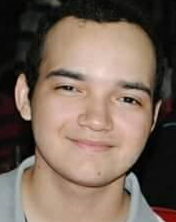
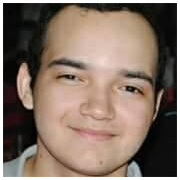
removendo imagens distorcidas #3 e adicionando página sobre a equipe #4

diff --git a/css/equipe.css b/css/equipe.css
@@ -1,0 +1,30 @@
+.membro{
+	border-top: 1px solid white;
+	padding:10px;
+	background-color: #F3F3F3;
+}
+
+.membro h5{
+	color:#446CB3;
+}
+
+.membro > *{
+	display: inline;	
+}
+
+.membro > img{
+	width:70px;
+	height: 70px;	
+	border-radius: 5px;	
+	float: left;
+	margin-right:10px;
+}
+
+.membro .contato img{
+	text-align: right;
+	float:right;
+	width:20px;
+	margin: 10px;
+	position:relative;
+	bottom: 50px;
+}

diff --git a/about.md b/about.md
@@ -3,58 +3,6 @@ layout: page
 title: Quem somos
 permalink: /quemsomos/
 ---
-<link href="../css/about.css" type="text/css" rel="stylesheet"> 
-
-<div class="equipe">
-	<h3>Diretoria</h3>
-	<div class="membro">
-		<img src="../images/DouglasGabriel.png">
-		<h4>Douglas Gabriel</h4><br>
-		Diretor Presidente
-	</div>
-	<br>
-	<div class="membro">
-		<img src="../images/Rafael.jpg">
-		<h4>Rafael Tavares</h4><br>
-		Diretor Vice-Presidente
-	</div>
-	<br>
-	<div class="membro">
-		<img src="../images/Victor.jpg">
-		<h4>Victor Hugo</h4><br>
-		Diretor de Projetos
-	</div>
-	<br>
-	<div class="membro">
-		<img src="../images/Jair.jpg">
-		<h4>Jair Anderson</h4><br>
-		Diretor Financeiro
-	</div>
-	<br>
-	<div class="membro">
-		<img src="../images/Priscila.jpg">
-		<h4>Priscila Gouveia</h4><br>
-		Diretora de RH
-	</div>
-	<br>
-	<div class="membro">
-		<img src="../images/Michelle.jpg">
-		<h4>Michelle Oliveira</h4><br>
-		Diretora de Qualidade
-	</div>
-	<br>
-	<div class="membro">
-		<img src="../images/Julierme.jpg">
-		<h4>Julierme Oliver</h4><br>
-		Diretor de Marketing
-	</div>
-	<br>
-	<div class="membro">
-		<img src="../images/Diogo.jpg">
-		<h4>Diogo Moreira</h4><br>
-		Professor Orientador
-	</div>
-</div>
 
 A Recursive é uma empresa sediada no campus do Instituto Federal de Educação, Ciência e Tecnologia da Paraíba da cidade de Cajazeiras que atua em diversas áreas do ramo do desenvolvimento de software. A nossa empresa é uma associação civil que tem a finalidade de proporcionar aos seus membros efetivos as condições necessárias para que estes sejam capazes de colocar em prática os conhecimentos teóricos relativos à sua área de formação profissional, além de dar a sociedade o retorno dos investimentos que ela realiza na Instituição de Ensino, através de serviços de alta qualidade, realizados por profissionais da Área de Análise e Desenvolvimento de Sistemas do curso de graduação do campus.
 

diff --git a/equipe.md b/equipe.md
@@ -1,0 +1,20 @@
+---
+layout: page
+title: Equipe
+permalink: /equipe/
+---
+
+<link href="../css/equipe.css" rel="stylesheet" type="css/text">
+
+<div class="membro">
+	<img src="../images/DouglasGabriel.png">
+	<h3>Douglas Gabriel</h3><br>
+	<h5>Diretor Presidente</h5><br><br><br>
+	<p>Técnico em informática, graduando em Análise e Desenvolvimento de Sistemas pelo IFPB, 20 anos. Tenho encarado minha carreira como aluno da forma mais séria possível, e agora, como integrante da Recursive, vejo minha maior oportunidade de crescimento pessoal e profissional. Assim, busco desempenhar meu papel da melhor forma possível, representando minha equipe e o Movimento Empresa Júnior.</p><br><br><br><br>
+	<div class="contato">
+		<a href="https://www.facebook.com/douglas.gabriel.18"><img src="../images/facebookicon.png" title="facebook"></a>
+		<a href="br.linkedin.com/pub/douglas-gabriel/a4/618/574/"><img src="../images/linkedinicon.png" title="linkedin">	</a>
+		<a href="https://github.com/douglasgabriel"><img src="../images/githubicon.png" title="github"></a>
+		<a href="http://lattes.cnpq.br/4795800104755832"><img src="../images/lattesicon.png" title="lattes"></a>
+	</div>
+</div>
